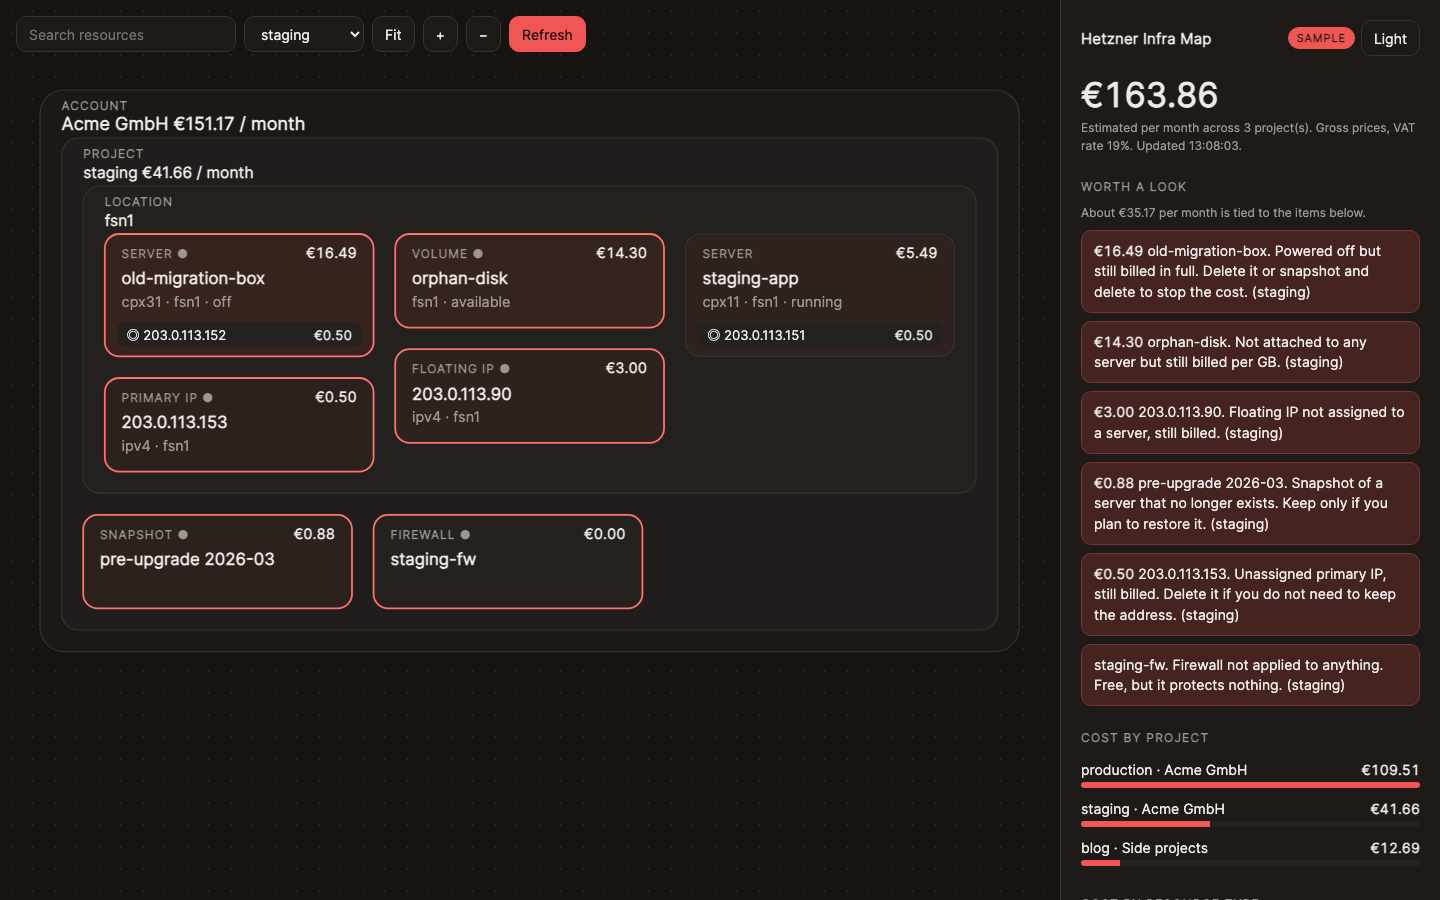
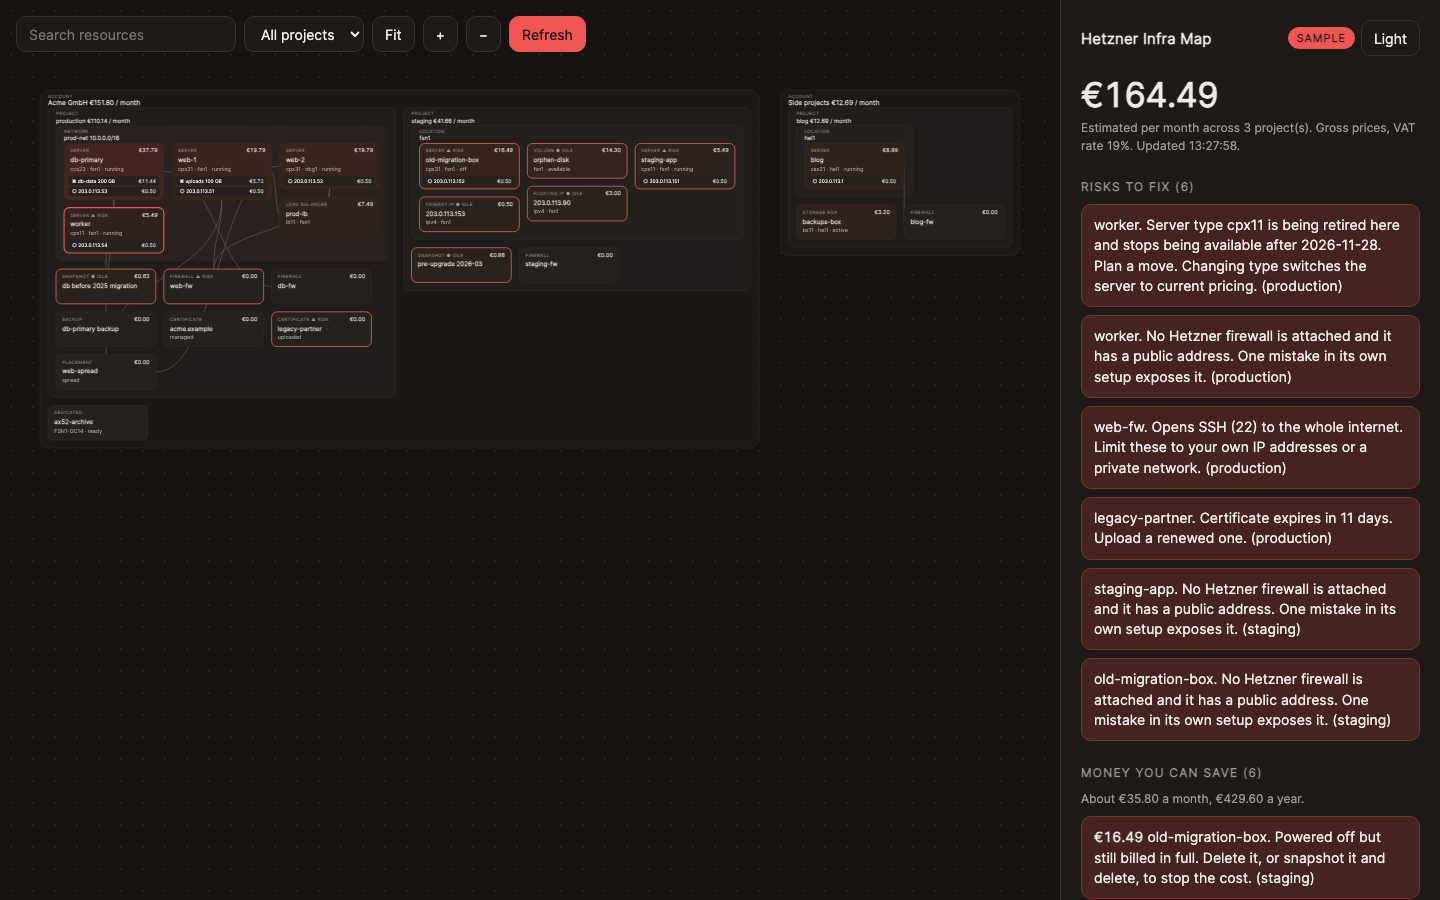
docs: prepare 0.5.0 release (#97)
* docs(changelog): credit 0.5.0 contributors

* docs: 0.5.0 upgrade note, current screenshots, capacity-aware provision skill

diff --git a/skills/hetzner-provision/SKILL.md b/skills/hetzner-provision/SKILL.md
@@ -13,6 +13,9 @@ and it never spends money without showing the price and getting an explicit yes.
 
 Confirm the MCP is connected and the Cloud token is present. A quick cloud_list_servers
 proves it. If the user wants dedicated servers, confirm the Robot credentials are set.
+Paid resources are off until HETZNER_MCP_ALLOW_BILLED=1 is set. If a billed step is refused
+for that reason, tell the user to rerun npx hetzner-mcp setup and answer yes, or add the
+variable, then restart the client.
 
 ## The order of operations, free things first
 
@@ -21,10 +24,12 @@ and reversible before any charge happens.
 
 1. Gather the requirement. purpose, rough size, region, operating system, how many servers.
 2. Read the catalog, all free.
-   - cloud_list_server_types to pick a size, for example cx22 for a small box.
-   - cloud_list_locations to pick a region, for example nbg1, fsn1, hel1.
+   - find_capacity to see which sizes can actually be ordered right now and where, with the
+     monthly price, for example min_cores 2 and a preferred location. It hides sold out
+     combinations and types that are being retired, so the create does not fail.
+   - cloud_list_locations if the user cares about a specific region, for example nbg1, fsn1, hel1.
    - cloud_list_images to pick an OS, for example ubuntu-24.04.
-   - cloud_get_pricing to know the exact cost of the chosen type.
+   - cloud_get_pricing if you need the hourly price as well.
 3. Create the free building blocks.
    - An SSH key with cloud_request POST /ssh_keys, or reference an existing one. Free.
    - A private network with cloud_request POST /networks if the design needs one. Free.
@@ -35,16 +40,18 @@ and reversible before any charge happens.
 5. Create the server, the one billed step, only after the user confirms.
    - cloud_request POST /servers with confirm true, passing server_type, image, location,
      ssh_keys, networks, firewalls, and user_data for cloud-init if provided.
-6. Wait and verify. poll the server with cloud_request GET /servers/{id} until status is
-   running, then report the public IP and how to connect.
+6. Wait and verify. The create waits for Hetzner to finish and reports any failed action.
+   Confirm with cloud_request GET /servers/{id} that status is running, then report the
+   public IP and how to connect.
 7. Hand back a summary. what was created, the IP, the monthly cost, and the exact teardown
-   command for later.
+   command for later. Offer infra_map so the user sees the new setup and its cost on a canvas.
 
 ## Cost and safety rules this skill always follows
 
 - Never call a billed create without confirm true, and never set confirm true on the user's
   behalf without showing the price and getting a clear yes in the conversation.
-- Prefer the smallest server type that meets the need. cx22 is a fine default for a demo.
+- Prefer the smallest server type that meets the need and that find_capacity lists as
+  orderable. cx23 is a fine default for a demo where it is available.
 - Reads and free creates do not need confirmation. Do those freely.
 - For a throwaway test, create then immediately delete, and tell the user the few cents of
   cost if it ran for minutes.
@@ -53,8 +60,10 @@ and reversible before any charge happens.
 
 Deletion is free and stops billing, but it destroys data, so DELETE needs confirm true.
 Tear down in reverse order. server first, then unused volumes, load balancers, floating and
-primary IPs, then the free pieces if no longer needed. Confirm the server is gone with a
-final cloud_list_servers. Remind the user that a deleted server cannot be recovered.
+primary IPs, then the free pieces if no longer needed. Asking cloud_delete_server without
+confirm first lists what keeps billing after the delete, use that list as the checklist.
+Finish with infra_map. its Money you can save list should be empty for what you built.
+Remind the user that a deleted server cannot be recovered.
 
 ## Dedicated servers and storage boxes
 

diff --git a/docs/MASTER-CHECKLIST.md b/docs/MASTER-CHECKLIST.md
@@ -18,7 +18,7 @@ This checklist is itself audited at the end. See docs/AUDIT.md (the validating a
 ## B. Endpoint coverage and the audit
 
 - [x] DONE. Generic per-surface request tools give complete reach to every endpoint. Evidence. src/tools/generic.ts.
-- [x] DONE. Curated read tools across all surfaces. Evidence. src/tools/resources.ts, 28 tools.
+- [x] DONE. Curated read tools across all surfaces. Evidence. src/tools/resources.ts, 27 tools as of 0.5.0.
 - [x] DONE. Live endpoint audit with real HTTP results and a deprecation log. Evidence. docs/ENDPOINT-AUDIT.md, docs/AUDIT.md.
 - [x] DONE. Eval harness validates every endpoint live, 39 of 39 passed. Evidence. test/eval.ts, docs/AUDIT.md.
 - [x] DONE. No fabrication. every endpoint proven by a live call in docs/AUDIT.md, 39 of 39.
@@ -47,7 +47,7 @@ This checklist is itself audited at the end. See docs/AUDIT.md (the validating a
 - [x] DONE. Compact projection of list responses by default, verbose on request. Evidence. src/format.js.
 - [x] DONE. Hard response size cap with a truncation hint. Evidence. src/format.js MAX_CHARS.
 - [x] DONE. Concise tool descriptions, lean tool count. Evidence. src/tools/.
-- [x] DONE. Token footprint documented, 32 tools, compact default, 24000 char cap. Evidence. docs/TOKEN-BUDGET.md.
+- [x] DONE. Token footprint documented, 57 tools as of 0.5.0, compact default, 24000 char cap. Evidence. docs/TOKEN-BUDGET.md.
 
 ## F. Quality and tooling, no stupidity
 

diff --git a/docs/TOKEN-BUDGET.md b/docs/TOKEN-BUDGET.md
@@ -5,8 +5,9 @@ token efficient on purpose.
 
 ## Tool surface
 
-- About 56 tools total. 3 generic per surface request tools, 28 curated read tools, 24
-  curated write tools, and 1 contribute tool. Titles and descriptions are kept short.
+- 57 tools total. 3 generic per surface request tools, 27 curated read tools, 24 curated
+  write tools, infra_map, find_capacity, and 1 contribute tool. Titles and descriptions are
+  kept short. infra_map returns a text summary by default and Mermaid only on request.
 - The 24 curated write tools cover create, delete, attach, detach, and assign for servers,
   volumes, networks, firewalls, load balancers, floating and primary IPs, SSH keys, and
   placement groups. Every billed create needs confirm, and every delete needs confirm.

diff --git a/README.md b/README.md
@@ -158,6 +158,8 @@ It is read-only and local. It only makes GET requests, listens on 127.0.0.1 only
 
 ## Cost safety, the part you actually worry about
 
+Upgrading from 0.4? Paid resources are now off by default. Rerun `npx hetzner-mcp setup` and answer yes when it asks about paid resources, or add `HETZNER_MCP_ALLOW_BILLED=1` to your client config. Two tools were retired along with the Hetzner endpoints behind them. `cloud_list_datacenters` is replaced by `cloud_list_locations` and `find_capacity`, and `robot_list_storageboxes` by `storagebox_list`.
+
 A wrong API call should never cost you money you did not intend. This tool is built around that.
 
 - Every list and get is free on Hetzner. Use them as much as you like.
